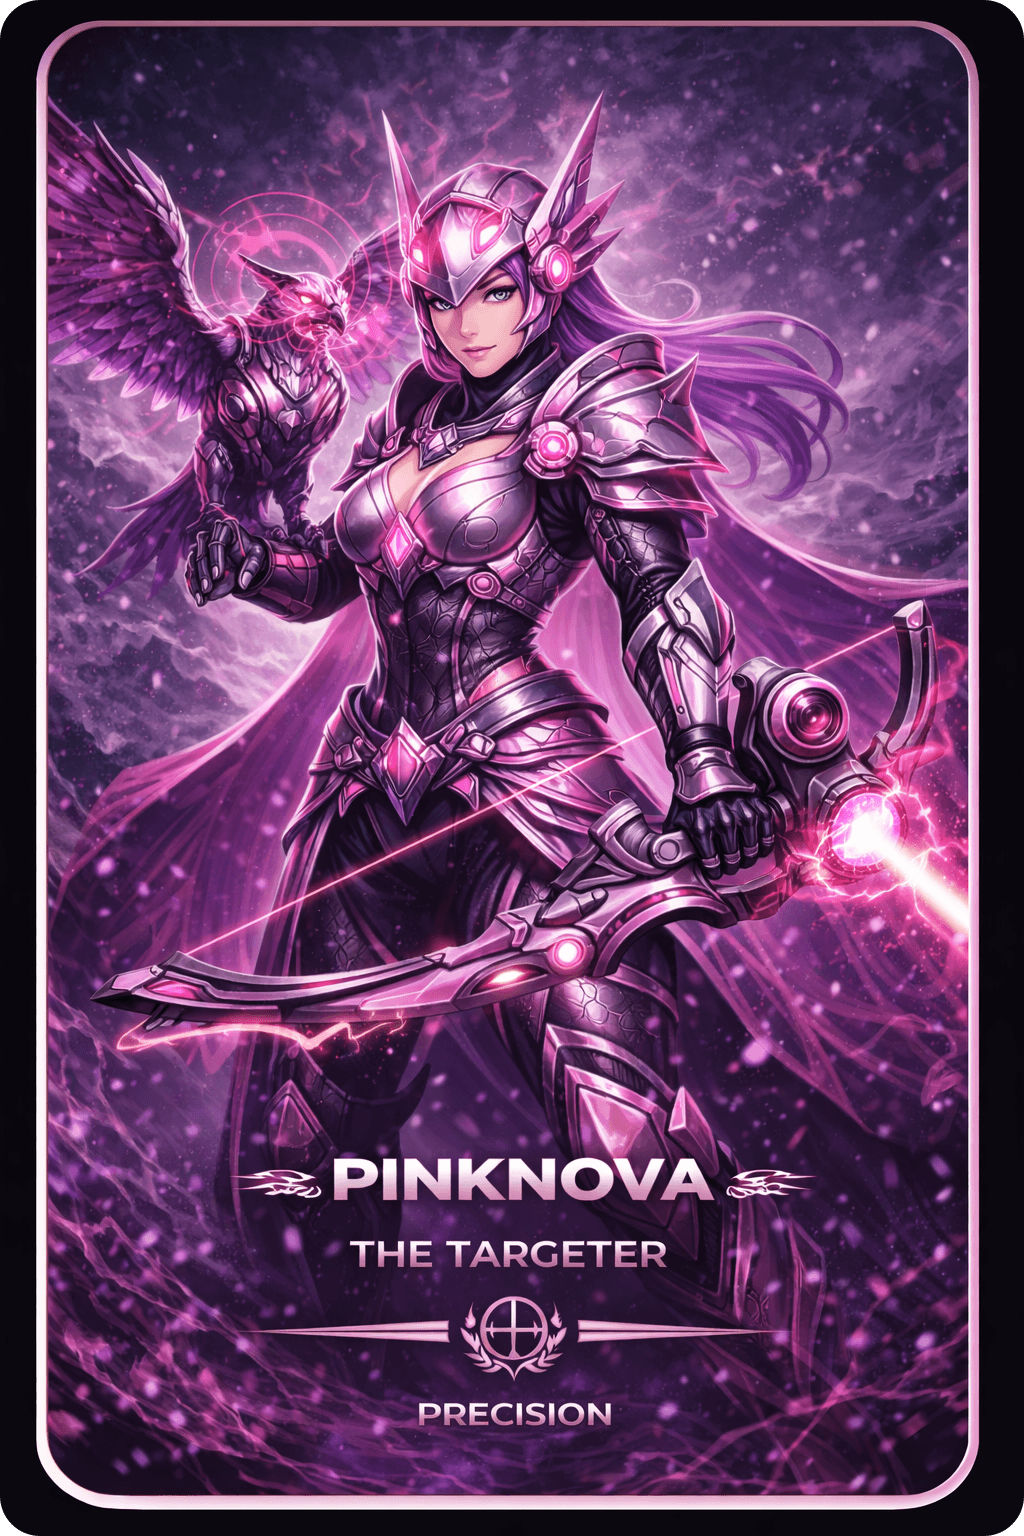
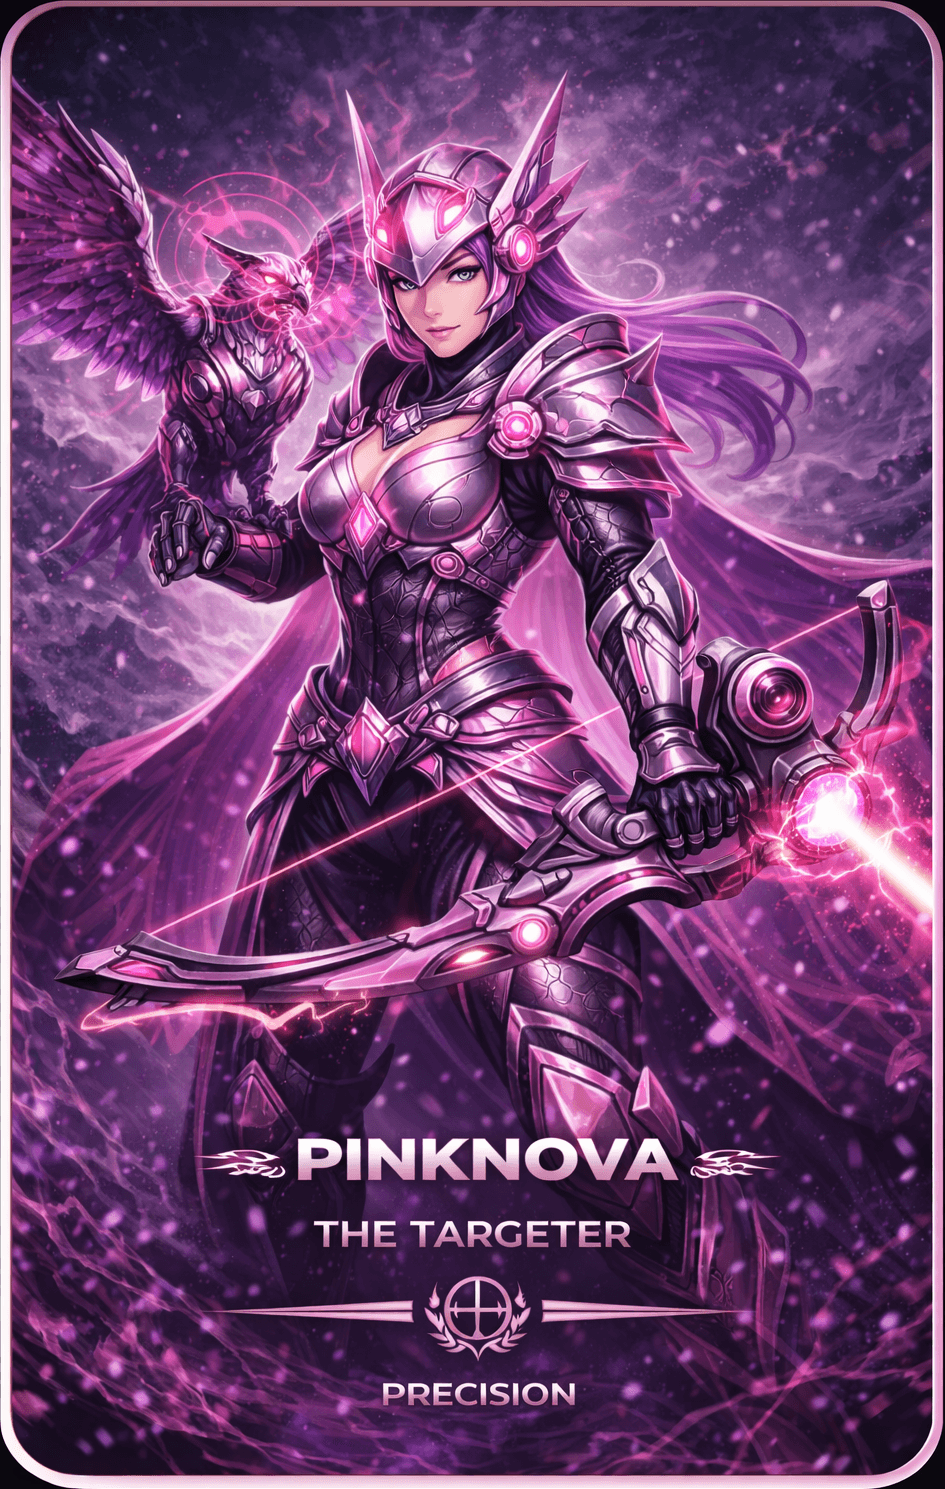
fix: crop dark margin from hero card art so the glow hugs the card (#7)
- trim the ~37/44/20/28px dark border baked around each of the 12 hero PNGs
  (945x1489) so the card frame reaches the edge, removing the black gap
  between the art and the per-hero glow
- match .characterCard aspect-ratio to the cropped art (945/1489) so cover
  fills exactly with no re-crop
- refresh README demo shots

diff --git a/app/game.module.css b/app/game.module.css
@@ -70,7 +70,9 @@
 
 .characterCard {
     width: 100%;
-    aspect-ratio: 2 / 3;
+    /* Matches the cropped hero art (945x1489) so object-fit: cover fills exactly and
+       the glow hugs the card - no dark margin re-cropped in. */
+    aspect-ratio: 945 / 1489;
     cursor: pointer;
     position: relative;
     transition: transform 0.3s cubic-bezier(0.34, 1.56, 0.64, 1);
